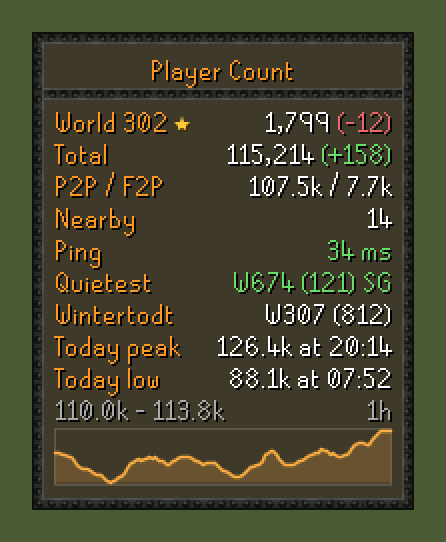
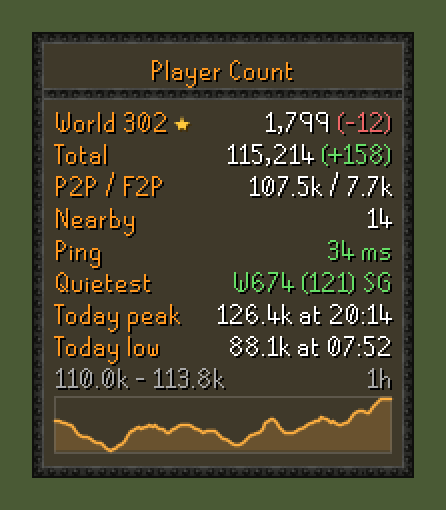
Remove Activity worlds; save favourite changes to disk immediately
RuneLite only writes settings every 5 minutes or on a normal exit, so a
star made shortly before the client was killed was lost. Starring now
calls ConfigManager.sendConfig() right away. Activity worlds is removed
(Themed worlds covers it).

Changed region(s): [[0.0874, 0.0588, 0.9327, 0.9412], [0.1166, 0.8235, 0.1749, 0.8529]]

diff --git a/src/main/java/com/playercount/PlayerCountPlugin.java b/src/main/java/com/playercount/PlayerCountPlugin.java
@@ -95,7 +95,6 @@ public class PlayerCountPlugin extends Plugin
 	private static final int MAX_HOP_ATTEMPTS = 5;
 	/** Ticks to ignore nearby-player changes after a login, hop or map load while players stream in. */
 	private static final int NEARBY_SETTLE_TICKS = 3;
-	private static final int MAX_ACTIVITY_TERMS = 6;
 	private static final String RECORDS_KEY = "dailyRecords";
 	/** Seconds after the last hit (either way) that you still count as in combat. */
 	private static final long COMBAT_LINGER_S = 8;
@@ -662,27 +661,6 @@ public class PlayerCountPlugin extends Plugin
 	Map<WorldRegion, WorldMap.RegionStat> regionStats()
 	{
 		return regionStats;
-	}
-
-	/** Busiest world per configured activity term, in the order typed (null value = none found). */
-	Map<String, World> activityWorlds()
-	{
-		WorldResult latest = latest();
-		String raw = config.activityWorlds();
-		if (latest == null || raw == null || raw.trim().isEmpty())
-		{
-			return Collections.emptyMap();
-		}
-		Map<String, World> out = new LinkedHashMap<>();
-		for (String term : raw.split(","))
-		{
-			String t = term.trim();
-			if (!t.isEmpty() && out.size() < MAX_ACTIVITY_TERMS)
-			{
-				out.put(t, WorldStats.busiestActivity(latest.getWorlds(), t));
-			}
-		}
-		return out;
 	}
 
 	/** Change in the total since the baseline, or null if there's no baseline yet. */
@@ -1310,6 +1288,8 @@ public class PlayerCountPlugin extends Plugin
 		configManager.setConfiguration(PlayerCountConfig.GROUP, PlayerCountConfig.STARRED_KEY, join(starred));
 		configManager.setConfiguration(PlayerCountConfig.GROUP, PlayerCountConfig.FAVORITES_KEY, join(typed));
 		recomputeFavorites();
+		// RuneLite only writes settings to disk every few minutes or on exit; save stars straight away.
+		executor.execute(configManager::sendConfig);
 		clientThread.invokeLater(() ->
 		{
 			updateSuggestion();

diff --git a/src/main/java/com/playercount/PlayerCountConfig.java b/src/main/java/com/playercount/PlayerCountConfig.java
@@ -142,12 +142,6 @@ public interface PlayerCountConfig extends Config
 		return true;
 	}
 
-	@ConfigItem(keyName = "activityWorlds", name = "Activity worlds", description = "Comma-separated activity names (e.g. Wintertodt, Tempoross). Shows the busiest matching world for each.", section = linesSection, position = 10)
-	default String activityWorlds()
-	{
-		return "";
-	}
-
 	@ConfigItem(keyName = "showRecords", name = "Daily records", description = "Today's peak and low OSRS total and when they happened (day resets 00:00 UTC)", section = linesSection, position = 11)
 	default boolean showRecords()
 	{

diff --git a/src/test/java/com/playercount/Showcase.java b/src/test/java/com/playercount/Showcase.java
@@ -72,7 +72,6 @@ public class Showcase
 
 		List<OverlayLayout.Item> full = basicItems();
 		full.add(4, OverlayLayout.Item.line("Ping").add("34 ms", PlayerCountOverlay.UP));
-		full.add(OverlayLayout.Item.line("Wintertodt").add("W307 (812)", Color.WHITE));
 		full.add(OverlayLayout.Item.line("Today peak").add("126.4k at 20:14", Color.WHITE));
 		full.add(OverlayLayout.Item.line("Today low").add("88.1k at 07:52", Color.WHITE));
 		full.add(OverlayLayout.Item.graph(series, graphEnd, Duration.ofHours(1)));

diff --git a/src/main/java/com/playercount/PlayerCountOverlay.java b/src/main/java/com/playercount/PlayerCountOverlay.java
@@ -416,12 +416,6 @@ class PlayerCountOverlay extends Overlay
 			}
 		}
 
-		for (Map.Entry<String, World> e : plugin.activityWorlds().entrySet())
-		{
-			World w = e.getValue();
-			items.add(flagRisk(OverlayLayout.Item.line(e.getKey()).add(w == null ? "none" : worldText(w, false), w == null ? MUTED : Color.WHITE).target(w), w, !mini));
-		}
-
 		if (config.showRecords())
 		{
 			DailyRecords r = plugin.getRecords();

diff --git a/README.md b/README.md
@@ -21,7 +21,6 @@ history.
   players are. Hover a region on the map for its player count, share and number of worlds.
 
   ![Region display options](docs/regions-vertical.png)
-- **Activity worlds**: type activities like `Wintertodt, Tempoross` and see the busiest world for each.
 - **Daily records**: today's peak and low OSRS total, and when they happened.
 - **Population graph** of the OSRS total or your current world over the last 1–6 hours. History is
   saved between sessions.
